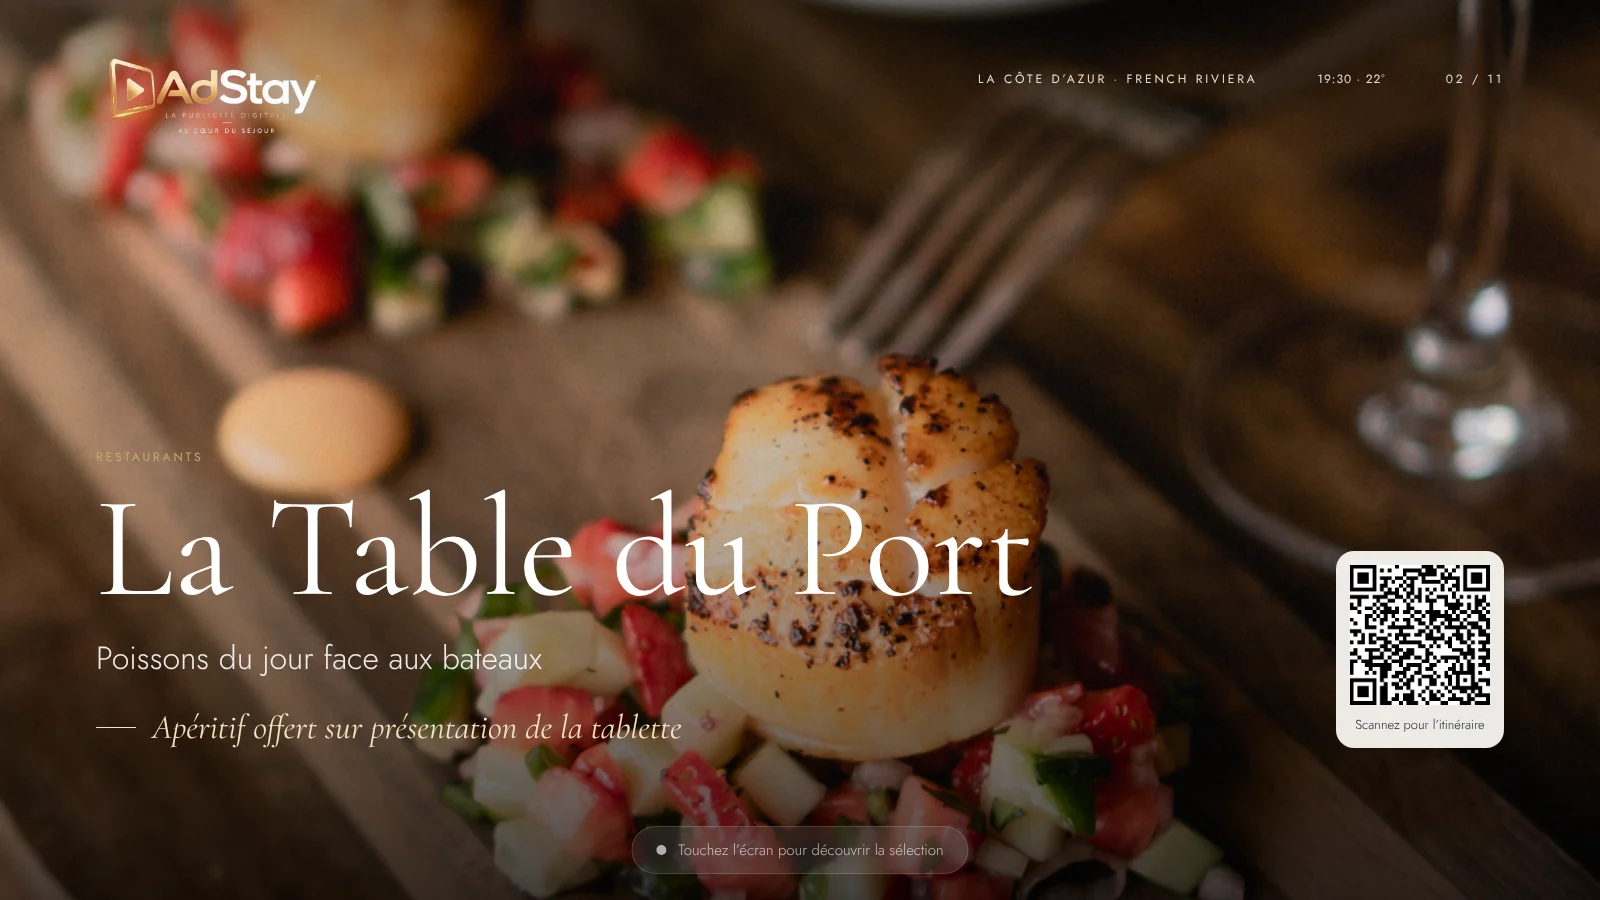
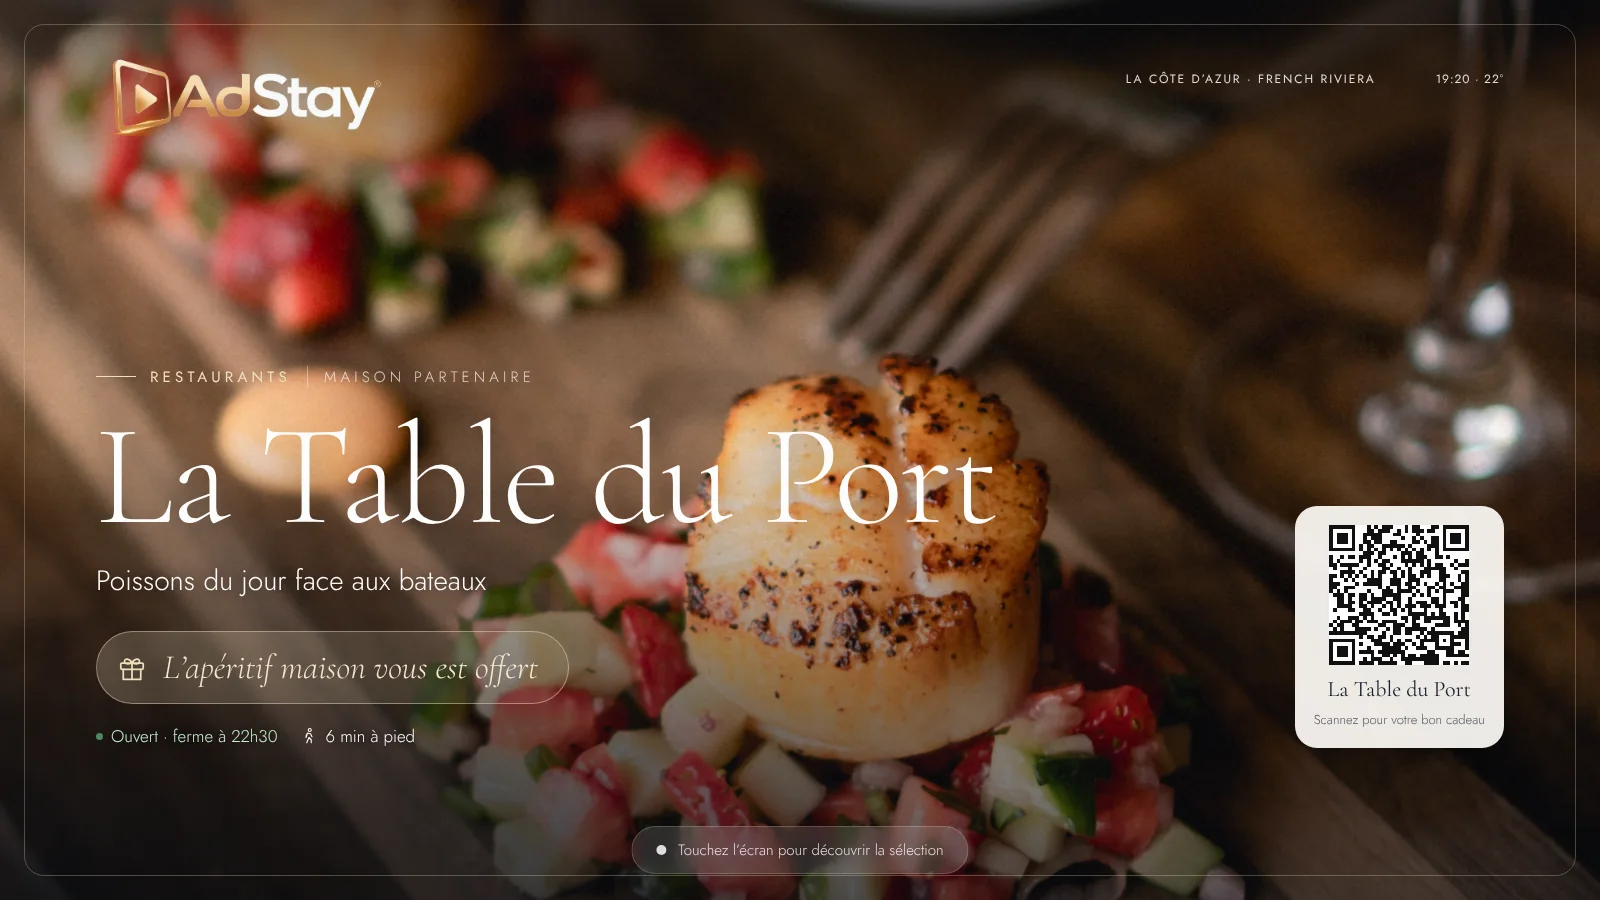
feat(adstay): page de vente — captures des emplacements refaites, en « projecteur » (#1429)
Les captures de la section « Où votre établissement apparaît » montraient
l'ancien design. Nouvelles captures (accueil, Offre du jour, bandeau, veille,
guide des adresses) avec l'emplacement vendu mis en lumière (cadre doré) et
le reste de l'écran assombri : le commerçant voit d'un coup d'œil sa place.
Texte du bandeau mis à jour (photo, nom et cadeau).

Claude-Session: https://claude.ai/code/session_01NEZ7j7PCNdUtaf728Et6nX

diff --git a/adstay/partenaires.html b/adstay/partenaires.html
@@ -189,7 +189,7 @@ h1 b{font-style:italic}
       <div><b>L’Offre du jour</b><span>Votre promotion en grand sous la carte « À la une », avec un compte à rebours en direct et vos places restantes : le voyageur a une raison d’y aller maintenant.</span>
         <span class="tags"><i class="or">Premium</i><i class="or">Exclusivité</i></span></div></div>
     <div class="emplacement"><img src="/adstay/apercus/bande.webp" alt="Bandeau d'annonces qui défile sur l'accueil" loading="lazy"/>
-      <div><b>Le bandeau défilant</b><span>En bas de l’accueil, les annonces défilent lentement en continu, photo et nom en avant. Toujours visible, sans avoir à chercher.</span>
+      <div><b>Le bandeau défilant</b><span>En bas de l’accueil, votre photo, votre nom et votre cadeau défilent lentement, sous un filet doré. Toujours visible, sans avoir à chercher.</span>
         <span class="tags"><i class="or">Premium</i><i class="or">Exclusivité</i></span></div></div>
     <div class="emplacement"><img src="/adstay/apercus/veille.webp" alt="Écran de veille plein écran avec QR code" loading="lazy"/>
       <div><b>Le plein écran en veille</b><span>Quand personne ne touche la tablette, votre photo passe en grand, avec votre offre et un QR code à scanner depuis le canapé.</span>
